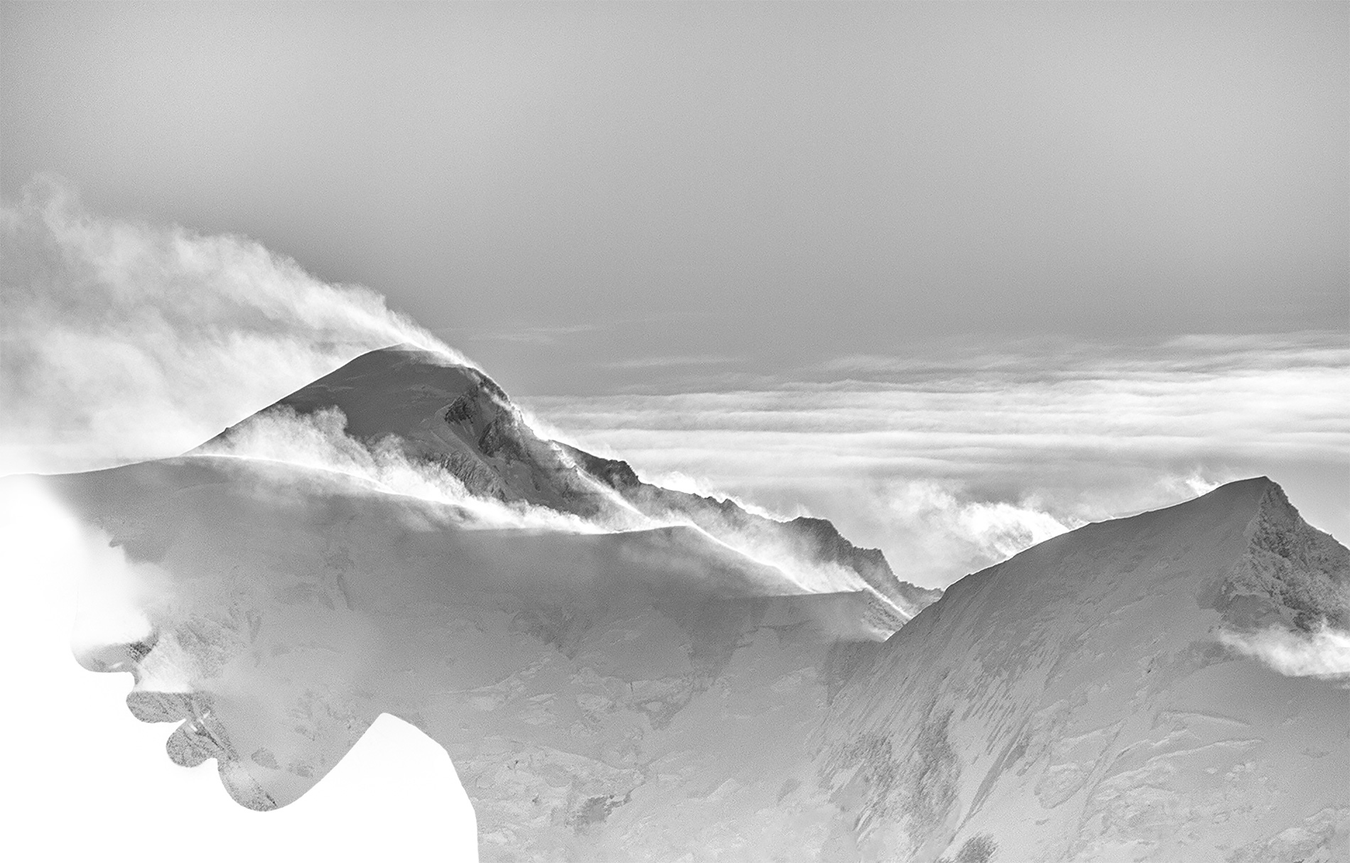
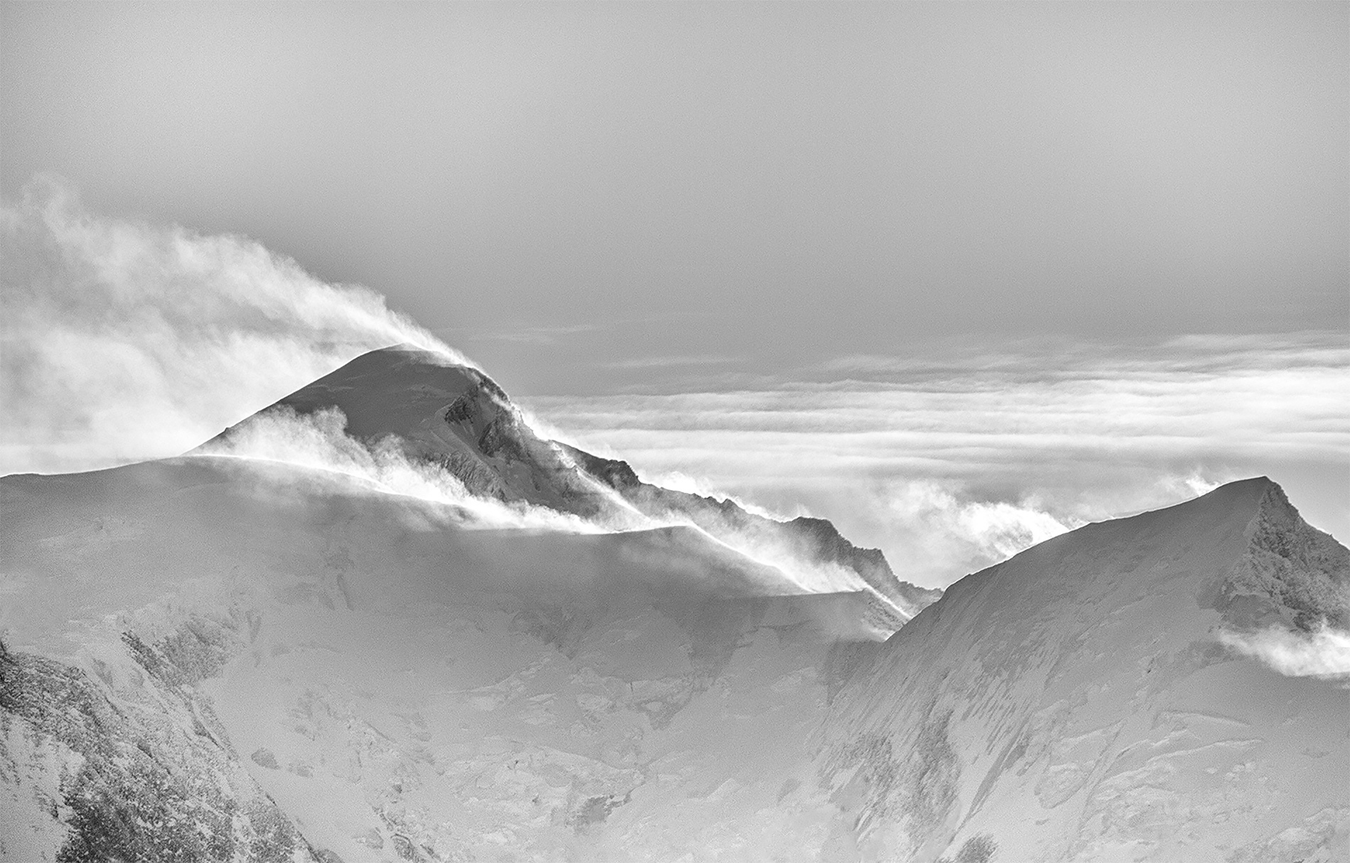
Use a separate image for woman head background

Changed region(s): [[0.0, 0.5177, 0.3726, 1.0]]

diff --git a/style.css b/style.css
@@ -1,1 +1,1 @@
-@font-face{font-family:'Avenir Next';src:url("fonts/avenir-next/AvenirNext-Bold.eot");src:url("fonts/avenir-next/AvenirNext-Bold.eot?#iefix") format("embedded-opentype"),url("fonts/avenir-next/AvenirNext-Bold.woff2") format("woff2"),url("fonts/avenir-next/AvenirNext-Bold.woff") format("woff"),url("fonts/avenir-next/AvenirNext-Bold.ttf") format("truetype"),url("fonts/avenir-next/AvenirNext-Bold.svg#AvenirNext-Bold") format("svg");font-weight:bold;font-style:normal}@font-face{font-family:'Avenir Next';src:url("fonts/avenir-next/AvenirNext-MediumItalic.eot");src:url("fonts/avenir-next/AvenirNext-MediumItalic.eot?#iefix") format("embedded-opentype"),url("fonts/avenir-next/AvenirNext-MediumItalic.woff2") format("woff2"),url("fonts/avenir-next/AvenirNext-MediumItalic.woff") format("woff"),url("fonts/avenir-next/AvenirNext-MediumItalic.ttf") format("truetype"),url("fonts/avenir-next/AvenirNext-MediumItalic.svg#AvenirNext-MediumItalic") format("svg");font-weight:500;font-style:italic}@font-face{font-family:'Avenir Next Condensed Ultra';src:url("fonts/avenir-next/AvenirNextCondensed-UltraLightItalic.eot");src:url("fonts/avenir-next/AvenirNextCondensed-UltraLightItalic.eot?#iefix") format("embedded-opentype"),url("fonts/avenir-next/AvenirNextCondensed-UltraLightItalic.woff2") format("woff2"),url("fonts/avenir-next/AvenirNextCondensed-UltraLightItalic.woff") format("woff"),url("fonts/avenir-next/AvenirNextCondensed-UltraLightItalic.ttf") format("truetype"),url("fonts/avenir-next/AvenirNextCondensed-UltraLightItalic.svg#AvenirNextCondensed-UltraLightItalic") format("svg");font-weight:200;font-style:italic}@font-face{font-family:'Avenir Next';src:url("fonts/avenir-next/AvenirNext-Heavy.eot");src:url("fonts/avenir-next/AvenirNext-Heavy.eot?#iefix") format("embedded-opentype"),url("fonts/avenir-next/AvenirNext-Heavy.woff2") format("woff2"),url("fonts/avenir-next/AvenirNext-Heavy.woff") format("woff"),url("fonts/avenir-next/AvenirNext-Heavy.ttf") format("truetype"),url("fonts/avenir-next/AvenirNext-Heavy.svg#AvenirNext-Heavy") format("svg");font-weight:900;font-style:normal}@font-face{font-family:'Avenir Next';src:url("fonts/avenir-next/AvenirNext-HeavyItalic.eot");src:url("fonts/avenir-next/AvenirNext-HeavyItalic.eot?#iefix") format("embedded-opentype"),url("fonts/avenir-next/AvenirNext-HeavyItalic.woff2") format("woff2"),url("fonts/avenir-next/AvenirNext-HeavyItalic.woff") format("woff"),url("fonts/avenir-next/AvenirNext-HeavyItalic.ttf") format("truetype"),url("fonts/avenir-next/AvenirNext-HeavyItalic.svg#AvenirNext-HeavyItalic") format("svg");font-weight:900;font-style:italic}@font-face{font-family:'Avenir Next Condensed';src:url("fonts/avenir-next/AvenirNextCondensed-Medium.eot");src:url("fonts/avenir-next/AvenirNextCondensed-Medium.eot?#iefix") format("embedded-opentype"),url("fonts/avenir-next/AvenirNextCondensed-Medium.woff2") format("woff2"),url("fonts/avenir-next/AvenirNextCondensed-Medium.woff") format("woff"),url("fonts/avenir-next/AvenirNextCondensed-Medium.ttf") format("truetype"),url("fonts/avenir-next/AvenirNextCondensed-Medium.svg#AvenirNextCondensed-Medium") format("svg");font-weight:500;font-style:normal}@font-face{font-family:'Avenir Next Condensed Demi';src:url("fonts/avenir-next/AvenirNextCondensed-DemiBoldItalic.eot");src:url("fonts/avenir-next/AvenirNextCondensed-DemiBoldItalic.eot?#iefix") format("embedded-opentype"),url("fonts/avenir-next/AvenirNextCondensed-DemiBoldItalic.woff2") format("woff2"),url("fonts/avenir-next/AvenirNextCondensed-DemiBoldItalic.woff") format("woff"),url("fonts/avenir-next/AvenirNextCondensed-DemiBoldItalic.ttf") format("truetype"),url("fonts/avenir-next/AvenirNextCondensed-DemiBoldItalic.svg#AvenirNextCondensed-DemiBoldItalic") format("svg");font-weight:600;font-style:italic}@font-face{font-family:'Avenir Next';src:url("fonts/avenir-next/AvenirNext-Regular.eot");src:url("fonts/avenir-next/AvenirNext-Regular.eot?#iefix") format("embedded-opentype"),url("fonts/avenir-next/AvenirNext-Regular.woff2") format("woff2"),url("fonts/avenir-next/AvenirNext-Regular.woff") format("woff"),url("fonts/avenir-next/AvenirNext-Regular.ttf") format("truetype"),url("fonts/avenir-next/AvenirNext-Regular.svg#AvenirNext-Regular") format("svg");font-weight:normal;font-style:normal}@font-face{font-family:'Avenir Next Condensed Ultra';src:url("fonts/avenir-next/AvenirNextCondensed-UltraLight.eot");src:url("fonts/avenir-next/AvenirNextCondensed-UltraLight.eot?#iefix") format("embedded-opentype"),url("fonts/avenir-next/AvenirNextCondensed-UltraLight.woff2") format("woff2"),url("fonts/avenir-next/AvenirNextCondensed-UltraLight.woff") format("woff"),url("fonts/avenir-next/AvenirNextCondensed-UltraLight.ttf") format("truetype"),url("fonts/avenir-next/AvenirNextCondensed-UltraLight.svg#AvenirNextCondensed-UltraLight") format("svg");font-weight:200;font-style:normal}@font-face{font-family:'Avenir Next Condensed';src:url("fonts/avenir-next/AvenirNextCondensed-Italic.eot");src:url("fonts/avenir-next/AvenirNextCondensed-Italic.eot?#iefix") format("embedded-opentype"),url("fonts/avenir-next/AvenirNextCondensed-Italic.woff2") format("woff2"),url("fonts/avenir-next/AvenirNextCondensed-Italic.woff") format("woff"),url("fonts/avenir-next/AvenirNextCondensed-Italic.ttf") format("truetype"),url("fonts/avenir-next/AvenirNextCondensed-Italic.svg#AvenirNextCondensed-Italic") format("svg");font-weight:normal;font-style:italic}@font-face{font-family:'Avenir Next Condensed';src:url("fonts/avenir-next/AvenirNextCondensed-MediumItalic.eot");src:url("fonts/avenir-next/AvenirNextCondensed-MediumItalic.eot?#iefix") format("embedded-opentype"),url("fonts/avenir-next/AvenirNextCondensed-MediumItalic.woff2") format("woff2"),url("fonts/avenir-next/AvenirNextCondensed-MediumItalic.woff") format("woff"),url("fonts/avenir-next/AvenirNextCondensed-MediumItalic.ttf") format("truetype"),url("fonts/avenir-next/AvenirNextCondensed-MediumItalic.svg#AvenirNextCondensed-MediumItalic") format("svg");font-weight:500;font-style:italic}@font-face{font-family:'Avenir Next Demi';src:url("fonts/avenir-next/AvenirNext-DemiBoldItalic.eot");src:url("fonts/avenir-next/AvenirNext-DemiBoldItalic.eot?#iefix") format("embedded-opentype"),url("fonts/avenir-next/AvenirNext-DemiBoldItalic.woff2") format("woff2"),url("fonts/avenir-next/AvenirNext-DemiBoldItalic.woff") format("woff"),url("fonts/avenir-next/AvenirNext-DemiBoldItalic.ttf") format("truetype"),url("fonts/avenir-next/AvenirNext-DemiBoldItalic.svg#AvenirNext-DemiBoldItalic") format("svg");font-weight:600;font-style:italic}@font-face{font-family:'Avenir Next Condensed';src:url("fonts/avenir-next/AvenirNextCondensed-Heavy.eot");src:url("fonts/avenir-next/AvenirNextCondensed-Heavy.eot?#iefix") format("embedded-opentype"),url("fonts/avenir-next/AvenirNextCondensed-Heavy.woff2") format("woff2"),url("fonts/avenir-next/AvenirNextCondensed-Heavy.woff") format("woff"),url("fonts/avenir-next/AvenirNextCondensed-Heavy.ttf") format("truetype"),url("fonts/avenir-next/AvenirNextCondensed-Heavy.svg#AvenirNextCondensed-Heavy") format("svg");font-weight:900;font-style:normal}@font-face{font-family:'Avenir Next Condensed Demi';src:url("fonts/avenir-next/AvenirNextCondensed-DemiBold.eot");src:url("fonts/avenir-next/AvenirNextCondensed-DemiBold.eot?#iefix") format("embedded-opentype"),url("fonts/avenir-next/AvenirNextCondensed-DemiBold.woff2") format("woff2"),url("fonts/avenir-next/AvenirNextCondensed-DemiBold.woff") format("woff"),url("fonts/avenir-next/AvenirNextCondensed-DemiBold.ttf") format("truetype"),url("fonts/avenir-next/AvenirNextCondensed-DemiBold.svg#AvenirNextCondensed-DemiBold") format("svg");font-weight:600;font-style:normal}@font-face{font-family:'Avenir Next';src:url("fonts/avenir-next/AvenirNext-Medium.eot");src:url("fonts/avenir-next/AvenirNext-Medium.eot?#iefix") format("embedded-opentype"),url("fonts/avenir-next/AvenirNext-Medium.woff2") format("woff2"),url("fonts/avenir-next/AvenirNext-Medium.woff") format("woff"),url("fonts/avenir-next/AvenirNext-Medium.ttf") format("truetype"),url("fonts/avenir-next/AvenirNext-Medium.svg#AvenirNext-Medium") format("svg");font-weight:500;font-style:normal}@font-face{font-family:'Avenir Next Ultra';src:url("fonts/avenir-next/AvenirNext-UltraLightItalic.eot");src:url("fonts/avenir-next/AvenirNext-UltraLightItalic.eot?#iefix") format("embedded-opentype"),url("fonts/avenir-next/AvenirNext-UltraLightItalic.woff2") format("woff2"),url("fonts/avenir-next/AvenirNext-UltraLightItalic.woff") format("woff"),url("fonts/avenir-next/AvenirNext-UltraLightItalic.ttf") format("truetype"),url("fonts/avenir-next/AvenirNext-UltraLightItalic.svg#AvenirNext-UltraLightItalic") format("svg");font-weight:200;font-style:italic}@font-face{font-family:'Avenir Next Condensed';src:url("fonts/avenir-next/AvenirNextCondensed-Regular.eot");src:url("fonts/avenir-next/AvenirNextCondensed-Regular.eot?#iefix") format("embedded-opentype"),url("fonts/avenir-next/AvenirNextCondensed-Regular.woff2") format("woff2"),url("fonts/avenir-next/AvenirNextCondensed-Regular.woff") format("woff"),url("fonts/avenir-next/AvenirNextCondensed-Regular.ttf") format("truetype"),url("fonts/avenir-next/AvenirNextCondensed-Regular.svg#AvenirNextCondensed-Regular") format("svg");font-weight:normal;font-style:normal}@font-face{font-family:'Avenir Next Ultra';src:url("fonts/avenir-next/AvenirNext-UltraLight.eot");src:url("fonts/avenir-next/AvenirNext-UltraLight.eot?#iefix") format("embedded-opentype"),url("fonts/avenir-next/AvenirNext-UltraLight.woff2") format("woff2"),url("fonts/avenir-next/AvenirNext-UltraLight.woff") format("woff"),url("fonts/avenir-next/AvenirNext-UltraLight.ttf") format("truetype"),url("fonts/avenir-next/AvenirNext-UltraLight.svg#AvenirNext-UltraLight") format("svg");font-weight:200;font-style:normal}@font-face{font-family:'Avenir Next Condensed';src:url("fonts/avenir-next/AvenirNextCondensed-BoldItalic.eot");src:url("fonts/avenir-next/AvenirNextCondensed-BoldItalic.eot?#iefix") format("embedded-opentype"),url("fonts/avenir-next/AvenirNextCondensed-BoldItalic.woff2") format("woff2"),url("fonts/avenir-next/AvenirNextCondensed-BoldItalic.woff") format("woff"),url("fonts/avenir-next/AvenirNextCondensed-BoldItalic.ttf") format("truetype"),url("fonts/avenir-next/AvenirNextCondensed-BoldItalic.svg#AvenirNextCondensed-BoldItalic") format("svg");font-weight:bold;font-style:italic}@font-face{font-family:'Avenir Next Demi';src:url("fonts/avenir-next/AvenirNext-DemiBold.eot");src:url("fonts/avenir-next/AvenirNext-DemiBold.eot?#iefix") format("embedded-opentype"),url("fonts/avenir-next/AvenirNext-DemiBold.woff2") format("woff2"),url("fonts/avenir-next/AvenirNext-DemiBold.woff") format("woff"),url("fonts/avenir-next/AvenirNext-DemiBold.ttf") format("truetype"),url("fonts/avenir-next/AvenirNext-DemiBold.svg#AvenirNext-DemiBold") format("svg");font-weight:600;font-style:normal}@font-face{font-family:'Avenir Next';src:url("fonts/avenir-next/AvenirNext-BoldItalic.eot");src:url("fonts/avenir-next/AvenirNext-BoldItalic.eot?#iefix") format("embedded-opentype"),url("fonts/avenir-next/AvenirNext-BoldItalic.woff2") format("woff2"),url("fonts/avenir-next/AvenirNext-BoldItalic.woff") format("woff"),url("fonts/avenir-next/AvenirNext-BoldItalic.ttf") format("truetype"),url("fonts/avenir-next/AvenirNext-BoldItalic.svg#AvenirNext-BoldItalic") format("svg");font-weight:bold;font-style:italic}@font-face{font-family:'Avenir Next Condensed';src:url("fonts/avenir-next/AvenirNextCondensed-HeavyItalic.eot");src:url("fonts/avenir-next/AvenirNextCondensed-HeavyItalic.eot?#iefix") format("embedded-opentype"),url("fonts/avenir-next/AvenirNextCondensed-HeavyItalic.woff2") format("woff2"),url("fonts/avenir-next/AvenirNextCondensed-HeavyItalic.woff") format("woff"),url("fonts/avenir-next/AvenirNextCondensed-HeavyItalic.ttf") format("truetype"),url("fonts/avenir-next/AvenirNextCondensed-HeavyItalic.svg#AvenirNextCondensed-HeavyItalic") format("svg");font-weight:900;font-style:italic}@font-face{font-family:'Avenir Next';src:url("fonts/avenir-next/AvenirNext-Italic.eot");src:url("fonts/avenir-next/AvenirNext-Italic.eot?#iefix") format("embedded-opentype"),url("fonts/avenir-next/AvenirNext-Italic.woff2") format("woff2"),url("fonts/avenir-next/AvenirNext-Italic.woff") format("woff"),url("fonts/avenir-next/AvenirNext-Italic.ttf") format("truetype"),url("fonts/avenir-next/AvenirNext-Italic.svg#AvenirNext-Italic") format("svg");font-weight:normal;font-style:italic}@font-face{font-family:'Avenir Next Condensed';src:url("fonts/avenir-next/AvenirNextCondensed-Bold.eot");src:url("fonts/avenir-next/AvenirNextCondensed-Bold.eot?#iefix") format("embedded-opentype"),url("fonts/avenir-next/AvenirNextCondensed-Bold.woff2") format("woff2"),url("fonts/avenir-next/AvenirNextCondensed-Bold.woff") format("woff"),url("fonts/avenir-next/AvenirNextCondensed-Bold.ttf") format("truetype"),url("fonts/avenir-next/AvenirNextCondensed-Bold.svg#AvenirNextCondensed-Bold") format("svg");font-weight:bold;font-style:normal}@font-face{font-family:'nina-icons';src:url("fonts/nina-icons.eot?sgxx1b");src:url("fonts/nina-icons.eot?sgxx1b#iefix") format("embedded-opentype"),url("fonts/nina-icons.ttf?sgxx1b") format("truetype"),url("fonts/nina-icons.woff?sgxx1b") format("woff"),url("fonts/nina-icons.svg?sgxx1b#nina-icons") format("svg");font-weight:normal;font-style:normal}[class^="nina-icon-"],[class*=" nina-icon-"]{font-family:'nina-icons' !important;speak:none;font-style:normal;font-weight:normal;font-variant:normal;text-transform:none;line-height:1;-webkit-font-smoothing:antialiased;-moz-osx-font-smoothing:grayscale}.nina-icon-add_circle:before{content:"\e147"}.nina-icon-add_circle_outline:before{content:"\e3ba"}.nina-icon-cancel:before{content:"\e5c9"}.nina-icon-navigate_before:before{content:"\e408"}.nina-icon-navigate_next:before{content:"\e409"}.nina-icon-close:before{content:"\e5cd"}.nina-icon-remove_circle:before{content:"\e15c"}.nina-icon-expand_less:before{content:"\e5ce"}.nina-icon-expand_more:before{content:"\e5cf"}.nina-icon-format_align_justify:before{content:"\e235"}.nina-icon-highlight_off:before{content:"\e888"}.nina-icon-menu:before{content:"\e5d2"}.nina-icon-pause_circle_filled:before{content:"\e035"}.nina-icon-pause_circle_outline:before{content:"\e036"}.nina-icon-play_circle_filled:before{content:"\e038"}.nina-icon-play_circle_outline:before{content:"\e039"}.nina-icon-playlist_add:before{content:"\e03b"}.nina-icon-playlist_add_check:before{content:"\e065"}.nina-icon-playlist_play:before{content:"\e05f"}.nina-icon-queue_music:before{content:"\e03d"}.nina-icon-remove_circle_outline:before{content:"\e15d"}.nina-icon-reorder:before{content:"\e8fe"}.nina-icon-view_headline:before{content:"\e8ee"}.nina-icon-volume_down:before{content:"\e04d"}.nina-icon-volume_mute:before{content:"\e04e"}.nina-icon-volume_off:before{content:"\e04f"}.nina-icon-volume_up:before{content:"\e050"}.noSelect,#track-info{-webkit-touch-callout:none;-webkit-user-select:none;-khtml-user-select:none;-moz-user-select:none;-ms-user-select:none;user-select:none}*{box-sizing:border-box}:focus{outline:none !important}html{font-size:100%;-webkit-text-size-adjust:100%;font-variant-ligatures:none;-webkit-font-variant-ligatures:none;text-rendering:optimizeLegibility;-moz-osx-font-smoothing:grayscale;font-smoothing:antialiased;-webkit-font-smoothing:antialiased;text-shadow:rgba(0,0,0,0.01) 0 0 1px}html,body{font-size:14px;font-family:"Avenir Next","Helvetica",sans-serif;color:#444;width:100%;height:100%;min-height:100%;padding:0px;margin:0px;overflow:hidden}body{position:absolute;left:0;right:0;top:0;bottom:0;overflow:hidden}h1,h2,h3,h4,h5,h6{font-weight:600;margin:0}.heading{font-family:"Avenir Next Condensed","Helvetica",sans-serif;font-weight:300;margin-bottom:2em;text-align:center}.centered{text-align:center}p{margin:0 0 1em 0}p:last-child{margin:0}.btn{cursor:pointer;text-decoration:none}.container{position:absolute;top:60px;left:40px;right:40px;margin-bottom:40px;color:#444}.container a{color:#444}body{position:relative}body:before{content:'';z-index:0;position:absolute;left:20px;top:20px;right:20px;bottom:20px;background:url("img/background-01-2018.jpg") no-repeat left center;-webkit-background-size:cover;background-size:cover}#logo{z-index:1;position:absolute;top:30%;left:0;transform:translateY(-50%);width:100%;text-align:center;transition:all 0.3s ease-in-out}@media (max-height: 400px){#logo{opacity:0}}@media only screen and (max-width: small-heightpx){#logo{opacity:0}}body.show-posts #logo{width:50% !important}@media (max-width: 768px){body.show-posts #logo{top:150px !important;width:100% !important}}body.show-track #logo{width:50% !important;left:50% !important}#logo .logo{width:40vw;max-width:200px}#credits{position:absolute;bottom:30px;right:26px;font-size:0.5em;font-weight:500;letter-spacing:0.1em;text-transform:uppercase;line-height:1em;padding:0;color:#fff;transform-origin:0 100%;transform:translateX(100%) rotate(-90deg)}@keyframes playerLoop{0%{top:0}48%{top:0}50%{top:-20px}99%{top:-20px}100%{top:0}}#track-info{z-index:100;text-align:left;position:absolute;top:20px;left:20px;height:40px;padding:11px 40px 0 20px;color:#444;background-color:rgba(255,255,255,0);overflow:hidden;font-size:1.1em}@media (max-width: 480px){#track-info{max-width:calc(100% - 80px)}}#track-info.fullscreen{max-width:100%}#track-info h1,#track-info h2,#track-info h3,#track-info h4,#track-info h5,#track-info h6{font-weight:400}#track-info-viewer{height:20px;overflow:hidden}#track-info-viewer .slider{position:relative;top:0}#track-info-viewer.animated .slider{-webkit-animation:playerLoop 10s infinite;-moz-animation:playerLoop 10s infinite;-o-animation:playerLoop 10s infinite;animation:playerLoop 10s infinite}#track-info-text{margin:0;width:auto;margin-left:35px;height:20px;white-space:nowrap;overflow:hidden;text-overflow:ellipsis}#track-info-type{margin-left:35px;height:20px;white-space:nowrap}#track-info-toggle{position:absolute;right:10px;top:50%;transform:translateY(-50%);font-size:1.4em;margin-top:-0.05em;display:none}@media (max-width: 768px){#track-info-toggle{margin-top:0}}body.mixtape #track-info-toggle{display:block}#track-info-toggle i.close{display:none}#track-info-toggle i.open{display:block}body.show-track #track-info-toggle i.close{display:block}body.show-track #track-info-toggle i.open{display:none}#equalizer{z-index:10;width:15px;height:15px;background-image:url("img/equalizer.gif");background-repeat:no-repeat;background-size:contain;background-position:center;position:absolute;top:50%;transform:translateY(-50%);cursor:pointer}body.muted #equalizer{opacity:0.2}body.loading #equalizer{opacity:0}#track-details{z-index:10;transition:all 0.3s ease-in-out;width:50%;height:100%;overflow-y:scroll;position:absolute;top:0;bottom:0;left:-50%;color:#444;background-color:#fff}@media (max-width: 768px){#track-details{width:100%;left:-100%}}#track-details .container{padding-top:20px}body.show-track #track-details{left:0}#track-details-type{font-family:"Avenir Next Condensed","Helvetica",sans-serif;text-align:right}#track-details-type span{position:relative;display:inline-block}#track-details-type span.author{margin-left:0.2em}#track-details-type span:not(:empty){margin-bottom:1em}#track-details-text{font-family:"Avenir Next Condensed","Helvetica",sans-serif;overflow:scroll;color:#444}#track-details-text ol,#track-details-text ul{margin:0;padding:0 0 0 2em;line-height:1.5em}#track-details-text ol li,#track-details-text ul li{padding-left:1em}#track-details-text .artist{font-weight:bold}#track-details-text p{margin:35px 0px 25px 0px}#track-details-cover img{margin:auto;margin-bottom:1em;width:100%}#posts-toggle{z-index:10;position:absolute;top:20px;right:20px;z-index:3;height:40px;width:40px;color:white;transition:all 0.3s ease-in-out}@media (max-height: 400px){#posts-toggle{opacity:0}}@media only screen and (max-width: small-heightpx){#posts-toggle{opacity:0}}@media (max-width: 768px){#posts-toggle{z-index:10}}body.show-posts #posts-toggle{z-index:10;background:transparent;color:#444}body.show-track #posts-toggle{display:none !important}#posts-toggle i{position:absolute;left:50%;top:50%;transform:translate(-50%, -50%);font-size:1.8em}#posts-toggle i.close{display:none}#posts-toggle i.open{display:block}body.show-posts #posts-toggle i.close{display:block}body.show-posts #posts-toggle i.open{display:none}@media (max-width: 768px){body.show-posts .container{top:0px !important}}#posts-box{transition:all 0.3s ease-in-out;width:50%;z-index:5;position:absolute;top:20px;bottom:20px;left:100%;overflow-y:scroll}@media (max-width: 768px){#posts-box{top:220px !important}}#posts-box .logo{display:inline-block;margin:0 auto;width:150px}#posts-box .heading{margin-bottom:0}#posts-box .subheading{background:transparent;font-family:"Avenir Next Condensed","Helvetica",sans-serif;font-size:1.6em;text-align:center}#posts-box .subheading:first-child{padding-top:0 !important}@media (max-width: 768px){#posts-box{width:100% !important;left:100% !important}}body.show-posts #posts-box{left:50%}@media (max-width: 768px){body.show-posts #posts-box{left:0 !important}}body.show-track #posts-box{left:100%}@media (max-width: 768px){body.show-track #posts-box{left:100% !important}}#posts-box .manual{text-align:right;font-size:0.9em;font-weight:300;font-style:italic;position:absolute;bottom:0;left:0;width:100%}.block{background:#fff;color:#444;padding:20px;margin-bottom:10px;-webkit-border-radius:4px;-moz-border-radius:4px;border-radius:4px;font-weight:100}.block:last-child{margin-bottom:0}.saison{text-transform:uppercase;font-size:0.5em}
+@font-face{font-family:'Avenir Next';src:url("fonts/avenir-next/AvenirNext-Bold.eot");src:url("fonts/avenir-next/AvenirNext-Bold.eot?#iefix") format("embedded-opentype"),url("fonts/avenir-next/AvenirNext-Bold.woff2") format("woff2"),url("fonts/avenir-next/AvenirNext-Bold.woff") format("woff"),url("fonts/avenir-next/AvenirNext-Bold.ttf") format("truetype"),url("fonts/avenir-next/AvenirNext-Bold.svg#AvenirNext-Bold") format("svg");font-weight:bold;font-style:normal}@font-face{font-family:'Avenir Next';src:url("fonts/avenir-next/AvenirNext-MediumItalic.eot");src:url("fonts/avenir-next/AvenirNext-MediumItalic.eot?#iefix") format("embedded-opentype"),url("fonts/avenir-next/AvenirNext-MediumItalic.woff2") format("woff2"),url("fonts/avenir-next/AvenirNext-MediumItalic.woff") format("woff"),url("fonts/avenir-next/AvenirNext-MediumItalic.ttf") format("truetype"),url("fonts/avenir-next/AvenirNext-MediumItalic.svg#AvenirNext-MediumItalic") format("svg");font-weight:500;font-style:italic}@font-face{font-family:'Avenir Next Condensed Ultra';src:url("fonts/avenir-next/AvenirNextCondensed-UltraLightItalic.eot");src:url("fonts/avenir-next/AvenirNextCondensed-UltraLightItalic.eot?#iefix") format("embedded-opentype"),url("fonts/avenir-next/AvenirNextCondensed-UltraLightItalic.woff2") format("woff2"),url("fonts/avenir-next/AvenirNextCondensed-UltraLightItalic.woff") format("woff"),url("fonts/avenir-next/AvenirNextCondensed-UltraLightItalic.ttf") format("truetype"),url("fonts/avenir-next/AvenirNextCondensed-UltraLightItalic.svg#AvenirNextCondensed-UltraLightItalic") format("svg");font-weight:200;font-style:italic}@font-face{font-family:'Avenir Next';src:url("fonts/avenir-next/AvenirNext-Heavy.eot");src:url("fonts/avenir-next/AvenirNext-Heavy.eot?#iefix") format("embedded-opentype"),url("fonts/avenir-next/AvenirNext-Heavy.woff2") format("woff2"),url("fonts/avenir-next/AvenirNext-Heavy.woff") format("woff"),url("fonts/avenir-next/AvenirNext-Heavy.ttf") format("truetype"),url("fonts/avenir-next/AvenirNext-Heavy.svg#AvenirNext-Heavy") format("svg");font-weight:900;font-style:normal}@font-face{font-family:'Avenir Next';src:url("fonts/avenir-next/AvenirNext-HeavyItalic.eot");src:url("fonts/avenir-next/AvenirNext-HeavyItalic.eot?#iefix") format("embedded-opentype"),url("fonts/avenir-next/AvenirNext-HeavyItalic.woff2") format("woff2"),url("fonts/avenir-next/AvenirNext-HeavyItalic.woff") format("woff"),url("fonts/avenir-next/AvenirNext-HeavyItalic.ttf") format("truetype"),url("fonts/avenir-next/AvenirNext-HeavyItalic.svg#AvenirNext-HeavyItalic") format("svg");font-weight:900;font-style:italic}@font-face{font-family:'Avenir Next Condensed';src:url("fonts/avenir-next/AvenirNextCondensed-Medium.eot");src:url("fonts/avenir-next/AvenirNextCondensed-Medium.eot?#iefix") format("embedded-opentype"),url("fonts/avenir-next/AvenirNextCondensed-Medium.woff2") format("woff2"),url("fonts/avenir-next/AvenirNextCondensed-Medium.woff") format("woff"),url("fonts/avenir-next/AvenirNextCondensed-Medium.ttf") format("truetype"),url("fonts/avenir-next/AvenirNextCondensed-Medium.svg#AvenirNextCondensed-Medium") format("svg");font-weight:500;font-style:normal}@font-face{font-family:'Avenir Next Condensed Demi';src:url("fonts/avenir-next/AvenirNextCondensed-DemiBoldItalic.eot");src:url("fonts/avenir-next/AvenirNextCondensed-DemiBoldItalic.eot?#iefix") format("embedded-opentype"),url("fonts/avenir-next/AvenirNextCondensed-DemiBoldItalic.woff2") format("woff2"),url("fonts/avenir-next/AvenirNextCondensed-DemiBoldItalic.woff") format("woff"),url("fonts/avenir-next/AvenirNextCondensed-DemiBoldItalic.ttf") format("truetype"),url("fonts/avenir-next/AvenirNextCondensed-DemiBoldItalic.svg#AvenirNextCondensed-DemiBoldItalic") format("svg");font-weight:600;font-style:italic}@font-face{font-family:'Avenir Next';src:url("fonts/avenir-next/AvenirNext-Regular.eot");src:url("fonts/avenir-next/AvenirNext-Regular.eot?#iefix") format("embedded-opentype"),url("fonts/avenir-next/AvenirNext-Regular.woff2") format("woff2"),url("fonts/avenir-next/AvenirNext-Regular.woff") format("woff"),url("fonts/avenir-next/AvenirNext-Regular.ttf") format("truetype"),url("fonts/avenir-next/AvenirNext-Regular.svg#AvenirNext-Regular") format("svg");font-weight:normal;font-style:normal}@font-face{font-family:'Avenir Next Condensed Ultra';src:url("fonts/avenir-next/AvenirNextCondensed-UltraLight.eot");src:url("fonts/avenir-next/AvenirNextCondensed-UltraLight.eot?#iefix") format("embedded-opentype"),url("fonts/avenir-next/AvenirNextCondensed-UltraLight.woff2") format("woff2"),url("fonts/avenir-next/AvenirNextCondensed-UltraLight.woff") format("woff"),url("fonts/avenir-next/AvenirNextCondensed-UltraLight.ttf") format("truetype"),url("fonts/avenir-next/AvenirNextCondensed-UltraLight.svg#AvenirNextCondensed-UltraLight") format("svg");font-weight:200;font-style:normal}@font-face{font-family:'Avenir Next Condensed';src:url("fonts/avenir-next/AvenirNextCondensed-Italic.eot");src:url("fonts/avenir-next/AvenirNextCondensed-Italic.eot?#iefix") format("embedded-opentype"),url("fonts/avenir-next/AvenirNextCondensed-Italic.woff2") format("woff2"),url("fonts/avenir-next/AvenirNextCondensed-Italic.woff") format("woff"),url("fonts/avenir-next/AvenirNextCondensed-Italic.ttf") format("truetype"),url("fonts/avenir-next/AvenirNextCondensed-Italic.svg#AvenirNextCondensed-Italic") format("svg");font-weight:normal;font-style:italic}@font-face{font-family:'Avenir Next Condensed';src:url("fonts/avenir-next/AvenirNextCondensed-MediumItalic.eot");src:url("fonts/avenir-next/AvenirNextCondensed-MediumItalic.eot?#iefix") format("embedded-opentype"),url("fonts/avenir-next/AvenirNextCondensed-MediumItalic.woff2") format("woff2"),url("fonts/avenir-next/AvenirNextCondensed-MediumItalic.woff") format("woff"),url("fonts/avenir-next/AvenirNextCondensed-MediumItalic.ttf") format("truetype"),url("fonts/avenir-next/AvenirNextCondensed-MediumItalic.svg#AvenirNextCondensed-MediumItalic") format("svg");font-weight:500;font-style:italic}@font-face{font-family:'Avenir Next Demi';src:url("fonts/avenir-next/AvenirNext-DemiBoldItalic.eot");src:url("fonts/avenir-next/AvenirNext-DemiBoldItalic.eot?#iefix") format("embedded-opentype"),url("fonts/avenir-next/AvenirNext-DemiBoldItalic.woff2") format("woff2"),url("fonts/avenir-next/AvenirNext-DemiBoldItalic.woff") format("woff"),url("fonts/avenir-next/AvenirNext-DemiBoldItalic.ttf") format("truetype"),url("fonts/avenir-next/AvenirNext-DemiBoldItalic.svg#AvenirNext-DemiBoldItalic") format("svg");font-weight:600;font-style:italic}@font-face{font-family:'Avenir Next Condensed';src:url("fonts/avenir-next/AvenirNextCondensed-Heavy.eot");src:url("fonts/avenir-next/AvenirNextCondensed-Heavy.eot?#iefix") format("embedded-opentype"),url("fonts/avenir-next/AvenirNextCondensed-Heavy.woff2") format("woff2"),url("fonts/avenir-next/AvenirNextCondensed-Heavy.woff") format("woff"),url("fonts/avenir-next/AvenirNextCondensed-Heavy.ttf") format("truetype"),url("fonts/avenir-next/AvenirNextCondensed-Heavy.svg#AvenirNextCondensed-Heavy") format("svg");font-weight:900;font-style:normal}@font-face{font-family:'Avenir Next Condensed Demi';src:url("fonts/avenir-next/AvenirNextCondensed-DemiBold.eot");src:url("fonts/avenir-next/AvenirNextCondensed-DemiBold.eot?#iefix") format("embedded-opentype"),url("fonts/avenir-next/AvenirNextCondensed-DemiBold.woff2") format("woff2"),url("fonts/avenir-next/AvenirNextCondensed-DemiBold.woff") format("woff"),url("fonts/avenir-next/AvenirNextCondensed-DemiBold.ttf") format("truetype"),url("fonts/avenir-next/AvenirNextCondensed-DemiBold.svg#AvenirNextCondensed-DemiBold") format("svg");font-weight:600;font-style:normal}@font-face{font-family:'Avenir Next';src:url("fonts/avenir-next/AvenirNext-Medium.eot");src:url("fonts/avenir-next/AvenirNext-Medium.eot?#iefix") format("embedded-opentype"),url("fonts/avenir-next/AvenirNext-Medium.woff2") format("woff2"),url("fonts/avenir-next/AvenirNext-Medium.woff") format("woff"),url("fonts/avenir-next/AvenirNext-Medium.ttf") format("truetype"),url("fonts/avenir-next/AvenirNext-Medium.svg#AvenirNext-Medium") format("svg");font-weight:500;font-style:normal}@font-face{font-family:'Avenir Next Ultra';src:url("fonts/avenir-next/AvenirNext-UltraLightItalic.eot");src:url("fonts/avenir-next/AvenirNext-UltraLightItalic.eot?#iefix") format("embedded-opentype"),url("fonts/avenir-next/AvenirNext-UltraLightItalic.woff2") format("woff2"),url("fonts/avenir-next/AvenirNext-UltraLightItalic.woff") format("woff"),url("fonts/avenir-next/AvenirNext-UltraLightItalic.ttf") format("truetype"),url("fonts/avenir-next/AvenirNext-UltraLightItalic.svg#AvenirNext-UltraLightItalic") format("svg");font-weight:200;font-style:italic}@font-face{font-family:'Avenir Next Condensed';src:url("fonts/avenir-next/AvenirNextCondensed-Regular.eot");src:url("fonts/avenir-next/AvenirNextCondensed-Regular.eot?#iefix") format("embedded-opentype"),url("fonts/avenir-next/AvenirNextCondensed-Regular.woff2") format("woff2"),url("fonts/avenir-next/AvenirNextCondensed-Regular.woff") format("woff"),url("fonts/avenir-next/AvenirNextCondensed-Regular.ttf") format("truetype"),url("fonts/avenir-next/AvenirNextCondensed-Regular.svg#AvenirNextCondensed-Regular") format("svg");font-weight:normal;font-style:normal}@font-face{font-family:'Avenir Next Ultra';src:url("fonts/avenir-next/AvenirNext-UltraLight.eot");src:url("fonts/avenir-next/AvenirNext-UltraLight.eot?#iefix") format("embedded-opentype"),url("fonts/avenir-next/AvenirNext-UltraLight.woff2") format("woff2"),url("fonts/avenir-next/AvenirNext-UltraLight.woff") format("woff"),url("fonts/avenir-next/AvenirNext-UltraLight.ttf") format("truetype"),url("fonts/avenir-next/AvenirNext-UltraLight.svg#AvenirNext-UltraLight") format("svg");font-weight:200;font-style:normal}@font-face{font-family:'Avenir Next Condensed';src:url("fonts/avenir-next/AvenirNextCondensed-BoldItalic.eot");src:url("fonts/avenir-next/AvenirNextCondensed-BoldItalic.eot?#iefix") format("embedded-opentype"),url("fonts/avenir-next/AvenirNextCondensed-BoldItalic.woff2") format("woff2"),url("fonts/avenir-next/AvenirNextCondensed-BoldItalic.woff") format("woff"),url("fonts/avenir-next/AvenirNextCondensed-BoldItalic.ttf") format("truetype"),url("fonts/avenir-next/AvenirNextCondensed-BoldItalic.svg#AvenirNextCondensed-BoldItalic") format("svg");font-weight:bold;font-style:italic}@font-face{font-family:'Avenir Next Demi';src:url("fonts/avenir-next/AvenirNext-DemiBold.eot");src:url("fonts/avenir-next/AvenirNext-DemiBold.eot?#iefix") format("embedded-opentype"),url("fonts/avenir-next/AvenirNext-DemiBold.woff2") format("woff2"),url("fonts/avenir-next/AvenirNext-DemiBold.woff") format("woff"),url("fonts/avenir-next/AvenirNext-DemiBold.ttf") format("truetype"),url("fonts/avenir-next/AvenirNext-DemiBold.svg#AvenirNext-DemiBold") format("svg");font-weight:600;font-style:normal}@font-face{font-family:'Avenir Next';src:url("fonts/avenir-next/AvenirNext-BoldItalic.eot");src:url("fonts/avenir-next/AvenirNext-BoldItalic.eot?#iefix") format("embedded-opentype"),url("fonts/avenir-next/AvenirNext-BoldItalic.woff2") format("woff2"),url("fonts/avenir-next/AvenirNext-BoldItalic.woff") format("woff"),url("fonts/avenir-next/AvenirNext-BoldItalic.ttf") format("truetype"),url("fonts/avenir-next/AvenirNext-BoldItalic.svg#AvenirNext-BoldItalic") format("svg");font-weight:bold;font-style:italic}@font-face{font-family:'Avenir Next Condensed';src:url("fonts/avenir-next/AvenirNextCondensed-HeavyItalic.eot");src:url("fonts/avenir-next/AvenirNextCondensed-HeavyItalic.eot?#iefix") format("embedded-opentype"),url("fonts/avenir-next/AvenirNextCondensed-HeavyItalic.woff2") format("woff2"),url("fonts/avenir-next/AvenirNextCondensed-HeavyItalic.woff") format("woff"),url("fonts/avenir-next/AvenirNextCondensed-HeavyItalic.ttf") format("truetype"),url("fonts/avenir-next/AvenirNextCondensed-HeavyItalic.svg#AvenirNextCondensed-HeavyItalic") format("svg");font-weight:900;font-style:italic}@font-face{font-family:'Avenir Next';src:url("fonts/avenir-next/AvenirNext-Italic.eot");src:url("fonts/avenir-next/AvenirNext-Italic.eot?#iefix") format("embedded-opentype"),url("fonts/avenir-next/AvenirNext-Italic.woff2") format("woff2"),url("fonts/avenir-next/AvenirNext-Italic.woff") format("woff"),url("fonts/avenir-next/AvenirNext-Italic.ttf") format("truetype"),url("fonts/avenir-next/AvenirNext-Italic.svg#AvenirNext-Italic") format("svg");font-weight:normal;font-style:italic}@font-face{font-family:'Avenir Next Condensed';src:url("fonts/avenir-next/AvenirNextCondensed-Bold.eot");src:url("fonts/avenir-next/AvenirNextCondensed-Bold.eot?#iefix") format("embedded-opentype"),url("fonts/avenir-next/AvenirNextCondensed-Bold.woff2") format("woff2"),url("fonts/avenir-next/AvenirNextCondensed-Bold.woff") format("woff"),url("fonts/avenir-next/AvenirNextCondensed-Bold.ttf") format("truetype"),url("fonts/avenir-next/AvenirNextCondensed-Bold.svg#AvenirNextCondensed-Bold") format("svg");font-weight:bold;font-style:normal}@font-face{font-family:'nina-icons';src:url("fonts/nina-icons.eot?sgxx1b");src:url("fonts/nina-icons.eot?sgxx1b#iefix") format("embedded-opentype"),url("fonts/nina-icons.ttf?sgxx1b") format("truetype"),url("fonts/nina-icons.woff?sgxx1b") format("woff"),url("fonts/nina-icons.svg?sgxx1b#nina-icons") format("svg");font-weight:normal;font-style:normal}[class^="nina-icon-"],[class*=" nina-icon-"]{font-family:'nina-icons' !important;speak:none;font-style:normal;font-weight:normal;font-variant:normal;text-transform:none;line-height:1;-webkit-font-smoothing:antialiased;-moz-osx-font-smoothing:grayscale}.nina-icon-add_circle:before{content:"\e147"}.nina-icon-add_circle_outline:before{content:"\e3ba"}.nina-icon-cancel:before{content:"\e5c9"}.nina-icon-navigate_before:before{content:"\e408"}.nina-icon-navigate_next:before{content:"\e409"}.nina-icon-close:before{content:"\e5cd"}.nina-icon-remove_circle:before{content:"\e15c"}.nina-icon-expand_less:before{content:"\e5ce"}.nina-icon-expand_more:before{content:"\e5cf"}.nina-icon-format_align_justify:before{content:"\e235"}.nina-icon-highlight_off:before{content:"\e888"}.nina-icon-menu:before{content:"\e5d2"}.nina-icon-pause_circle_filled:before{content:"\e035"}.nina-icon-pause_circle_outline:before{content:"\e036"}.nina-icon-play_circle_filled:before{content:"\e038"}.nina-icon-play_circle_outline:before{content:"\e039"}.nina-icon-playlist_add:before{content:"\e03b"}.nina-icon-playlist_add_check:before{content:"\e065"}.nina-icon-playlist_play:before{content:"\e05f"}.nina-icon-queue_music:before{content:"\e03d"}.nina-icon-remove_circle_outline:before{content:"\e15d"}.nina-icon-reorder:before{content:"\e8fe"}.nina-icon-view_headline:before{content:"\e8ee"}.nina-icon-volume_down:before{content:"\e04d"}.nina-icon-volume_mute:before{content:"\e04e"}.nina-icon-volume_off:before{content:"\e04f"}.nina-icon-volume_up:before{content:"\e050"}.noSelect,#track-info{-webkit-touch-callout:none;-webkit-user-select:none;-khtml-user-select:none;-moz-user-select:none;-ms-user-select:none;user-select:none}*{box-sizing:border-box}:focus{outline:none !important}html{font-size:100%;-webkit-text-size-adjust:100%;font-variant-ligatures:none;-webkit-font-variant-ligatures:none;text-rendering:optimizeLegibility;-moz-osx-font-smoothing:grayscale;font-smoothing:antialiased;-webkit-font-smoothing:antialiased;text-shadow:rgba(0,0,0,0.01) 0 0 1px}html,body{font-size:14px;font-family:"Avenir Next","Helvetica",sans-serif;color:#444;width:100%;height:100%;min-height:100%;padding:0px;margin:0px;overflow:hidden}body{position:absolute;left:0;right:0;top:0;bottom:0;overflow:hidden}h1,h2,h3,h4,h5,h6{font-weight:600;margin:0}.heading{font-family:"Avenir Next Condensed","Helvetica",sans-serif;font-weight:300;margin-bottom:2em;text-align:center}.centered{text-align:center}p{margin:0 0 1em 0}p:last-child{margin:0}.btn{cursor:pointer;text-decoration:none}.container{position:absolute;top:60px;left:40px;right:40px;margin-bottom:40px;color:#444}.container a{color:#444}body{position:relative}body:before,body:after{content:'';position:absolute;left:20px;top:20px;right:20px;bottom:20px}body:before{z-index:0;background:url("img/background-01-2018.jpg") no-repeat left center;-webkit-background-size:cover;background-size:cover}body:after{z-index:1;left:19px;top:19px;right:19px;bottom:19px;background:url("img/woman.png") no-repeat left bottom}#logo{z-index:1;position:absolute;top:30%;left:0;transform:translateY(-50%);width:100%;text-align:center;transition:all 0.3s ease-in-out}@media (max-height: 400px){#logo{opacity:0}}@media only screen and (max-width: small-heightpx){#logo{opacity:0}}body.show-posts #logo{width:50% !important}@media (max-width: 768px){body.show-posts #logo{top:150px !important;width:100% !important}}body.show-track #logo{width:50% !important;left:50% !important}#logo .logo{width:40vw;max-width:200px}#credits{position:absolute;bottom:30px;right:26px;font-size:0.5em;font-weight:500;letter-spacing:0.1em;text-transform:uppercase;line-height:1em;padding:0;color:#fff;transform-origin:0 100%;transform:translateX(100%) rotate(-90deg)}@keyframes playerLoop{0%{top:0}48%{top:0}50%{top:-20px}99%{top:-20px}100%{top:0}}#track-info{z-index:100;text-align:left;position:absolute;top:20px;left:20px;height:40px;padding:11px 40px 0 20px;color:#444;background-color:rgba(255,255,255,0);overflow:hidden;font-size:1.1em}#track-info i{position:relative;top:0.1em}@media (max-width: 480px){#track-info{max-width:calc(100% - 80px)}}#track-info.fullscreen{max-width:100%}#track-info h1,#track-info h2,#track-info h3,#track-info h4,#track-info h5,#track-info h6{font-weight:400}#track-info-viewer{height:20px;overflow:hidden}#track-info-viewer .slider{position:relative;top:0}#track-info-viewer.animated .slider{-webkit-animation:playerLoop 10s infinite;-moz-animation:playerLoop 10s infinite;-o-animation:playerLoop 10s infinite;animation:playerLoop 10s infinite}#track-info-text{margin:0;width:auto;margin-left:35px;height:20px;white-space:nowrap;overflow:hidden;text-overflow:ellipsis}#track-info-type{margin-left:35px;height:20px;white-space:nowrap}#track-info-toggle{position:absolute;right:10px;top:50%;transform:translateY(-50%);font-size:1.4em;margin-top:-0.05em;display:none}@media (max-width: 768px){#track-info-toggle{margin-top:0}}body.mixtape #track-info-toggle{display:block}#track-info-toggle i.close{display:none}#track-info-toggle i.open{display:block}body.show-track #track-info-toggle i.close{display:block}body.show-track #track-info-toggle i.open{display:none}#equalizer{z-index:10;width:15px;height:15px;background-image:url("img/equalizer.gif");background-repeat:no-repeat;background-size:contain;background-position:center;position:absolute;top:50%;transform:translateY(-50%);cursor:pointer}body.muted #equalizer{opacity:0.2}body.loading #equalizer{opacity:0}#track-details{z-index:10;transition:all 0.3s ease-in-out;width:50%;height:100%;overflow-y:scroll;position:absolute;top:0;bottom:0;left:-50%;color:#444;background-color:#fff}@media (max-width: 768px){#track-details{width:100%;left:-100%}}#track-details .container{padding-top:20px}body.show-track #track-details{left:0}#track-details-type{font-family:"Avenir Next Condensed","Helvetica",sans-serif;text-align:right}#track-details-type span{position:relative;display:inline-block}#track-details-type span.author{margin-left:0.2em}#track-details-type span:not(:empty){margin-bottom:1em}#track-details-text{font-family:"Avenir Next Condensed","Helvetica",sans-serif;overflow:scroll;color:#444}#track-details-text ol,#track-details-text ul{margin:0;padding:0 0 0 2em;line-height:1.5em}#track-details-text ol li,#track-details-text ul li{padding-left:1em}#track-details-text .artist{font-weight:bold}#track-details-text p{margin:35px 0px 25px 0px}#track-details-cover img{margin:auto;margin-bottom:1em;width:100%}#posts-toggle{z-index:10;position:absolute;top:20px;right:20px;z-index:3;height:40px;width:40px;color:white;transition:all 0.3s ease-in-out}@media (max-height: 400px){#posts-toggle{opacity:0}}@media only screen and (max-width: small-heightpx){#posts-toggle{opacity:0}}@media (max-width: 768px){#posts-toggle{z-index:10}}body.show-posts #posts-toggle{z-index:10;background:transparent;color:#444}body.show-track #posts-toggle{display:none !important}#posts-toggle i{position:absolute;left:50%;top:50%;transform:translate(-50%, -50%);font-size:1.8em}#posts-toggle i.close{display:none}#posts-toggle i.open{display:block}body.show-posts #posts-toggle i.close{display:block}body.show-posts #posts-toggle i.open{display:none}@media (max-width: 768px){body.show-posts .container{top:0px !important}}#posts-box{transition:all 0.3s ease-in-out;width:50%;z-index:5;position:absolute;top:20px;bottom:20px;left:100%;overflow-y:scroll}@media (max-width: 768px){#posts-box{top:220px !important}}#posts-box .logo{display:inline-block;margin:0 auto;width:150px}#posts-box .heading{margin-bottom:0}#posts-box .subheading{background:transparent;font-family:"Avenir Next Condensed","Helvetica",sans-serif;font-size:1.6em;text-align:center}#posts-box .subheading:first-child{padding-top:0 !important}@media (max-width: 768px){#posts-box{width:100% !important;left:100% !important}}body.show-posts #posts-box{left:50%}@media (max-width: 768px){body.show-posts #posts-box{left:0 !important}}body.show-track #posts-box{left:100%}@media (max-width: 768px){body.show-track #posts-box{left:100% !important}}#posts-box .manual{text-align:right;font-size:0.9em;font-weight:300;font-style:italic;position:absolute;bottom:0;left:0;width:100%}.block{background:#fff;color:#444;padding:20px;margin-bottom:10px;-webkit-border-radius:4px;-moz-border-radius:4px;border-radius:4px;font-weight:100}.block:last-child{margin-bottom:0}.saison{text-transform:uppercase;font-size:0.5em;border-bottom:1px solid #444;padding-bottom:0.2em}

diff --git a/index.html b/index.html
@@ -3,7 +3,7 @@
 <head>
     <link rel="icon" href="img/favicon.png" type="image/png">
     <!-- inject:css -->
-    <link rel="stylesheet" href="/style.css?v=1516130824868">
+    <link rel="stylesheet" href="/style.css?v=1516153576023">
     <!-- endinject -->
     <meta charset="UTF-8">
     <meta name="viewport" content="width=device-width, initial-scale=1.0, shrink-to-fit=no">
@@ -92,9 +92,9 @@
 
     <script src="https://code.jquery.com/jquery-2.1.3.min.js" type="text/javascript" charset="utf-8"></script>
     <!-- inject:js -->
-    <script src="/env.js?v=1516130824868"></script>
-    <script src="/js/main.js?v=1516130824868"></script>
-    <script src="/js/nina_track_info.js?v=1516130824868"></script>
+    <script src="/env.js?v=1516153576023"></script>
+    <script src="/js/main.js?v=1516153576023"></script>
+    <script src="/js/nina_track_info.js?v=1516153576023"></script>
     <!-- endinject -->
 
     <script type="text/javascript">

diff --git a/sass/_background.scss b/sass/_background.scss
@@ -1,16 +1,29 @@
 body {
   position: relative;
-  &:before {
+  &:before,
+  &:after {
     content: '';
-    z-index: 0;
     position: absolute;
     left: $margin-global;
     top: $margin-global;
     right: $margin-global;
     bottom: $margin-global;
+  }
+  &:before {
+    z-index: 0;
     background: url($image-bg) no-repeat left center;
     -webkit-background-size: cover;
     background-size: cover;
+  }
+  &:after {
+    z-index: 1;
+    left: $margin-global - 1;
+    top: $margin-global - 1;
+    right: $margin-global - 1;
+    bottom: $margin-global - 1;
+    background: url($image-mask) no-repeat left bottom;
+    //-webkit-background-size: contain;
+    //background-size: contain;
   }
 }
 

diff --git a/sass/_variables.scss b/sass/_variables.scss
@@ -1,4 +1,5 @@
 $image-bg:          'img/background-01-2018.jpg' !default;
+$image-mask:        'img/woman.png' !default;
 $image-equalizer:   'img/equalizer.gif' !default;
 
 $font-family:       'Avenir Next', 'Helvetica', sans-serif !default;

diff --git a/sass/_track.scss b/sass/_track.scss
@@ -22,6 +22,11 @@
   overflow: hidden;
   font-size: 1.1em;
 
+  i {
+    position: relative;
+    top: 0.1em;
+  }
+
   @include respond-to(phone) {
     max-width: calc(100% - #{$margin-global*4});
   }

diff --git a/sass/_posts.scss b/sass/_posts.scss
@@ -138,4 +138,6 @@ body.show-posts .container {
 .saison {
   text-transform: uppercase;
   font-size: 0.5em;
+  border-bottom: 1px solid $color-main-text;
+  padding-bottom: 0.2em;
 }
